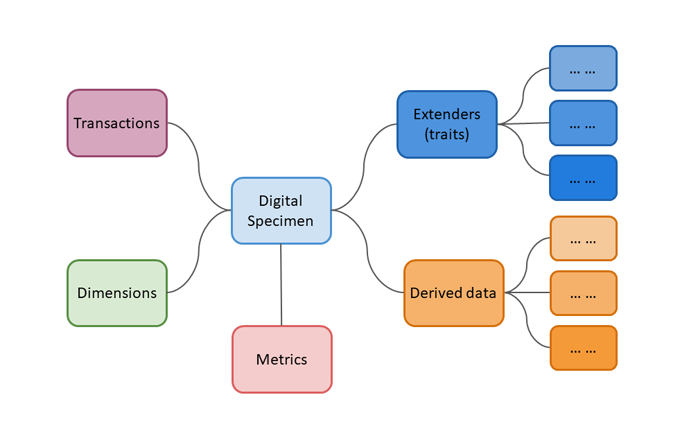
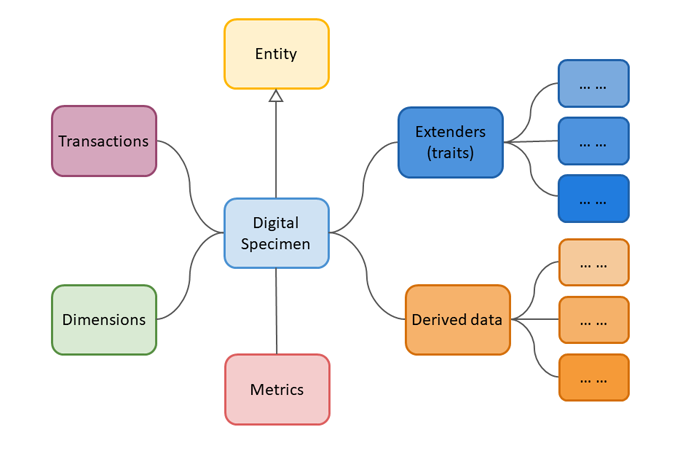
Reorganise as class groups
Reorganise three-level class hierarchy as as three class groups as it's not strictly hierarhical. Also, change diagrams.

diff --git a/data-model/data-model-intro.md b/data-model/data-model-intro.md
@@ -1,23 +1,23 @@
 # Introduction to the openDS data model <!-- omit in toc -->
 
-> **<p style="color: red;">17th November 2020: Note that the content of this page is work-in-progress and therefore incomplete. It does not yet describe all aspects of the model as elaborated in various Powerpoint presentations over the past months.</p>**
+> **<p style="color: red;">19th November 2020: This page is work-in-progress and therefore not yet complete and consistent. As yet, it doesn't describe all aspects as elaborated in Powerpoint presentations over the past months.</p>**
 > **<p style="color: red;">The important point at this moment is to obtain consensus on the foundation model described here.</p>**
 
-- [Three-level class hierarchy](#three-level-class-hierarchy)
+- [Class grouping](#class-grouping)
 - [Abstract (primary) level class definitions](#abstract-primary-level-class-definitions)
-- [Concrete (secondary) level class definitions](#concrete-secondary-level-class-definitions)
-  - [Classes with parent class Entity](#classes-with-parent-class-entity)
-  - [Classes with parent class Dimension](#classes-with-parent-class-dimension)
+- [openDS group class definitions](#opends-group-class-definitions)
+  - [Classes with abstract parent class Entity](#classes-with-abstract-parent-class-entity)
+  - [Classes with abstract parent class Dimension](#classes-with-abstract-parent-class-dimension)
 - [Extender (tertiary) level class definitions](#extender-tertiary-level-class-definitions)
 
-## Three-level class hierarchy
-As explained in [positioning openDS in the landscape](/positioning-opends.md), our design proposal (November 2020) aligns perfectly with the basic, three-axiom attribution model based on PROV entities (Entity, Activity, Agent) as outlined in the RDA Recommendation on '[Attribution Metadata](http://dx.doi.org/10.15497/RDA00029)'. We achieve this by defining a three-level class hierarchy in which we set the PROV model as the abstract or primary level from which some of the concrete classes of the openDS specification are inherited. To account for the wide variation in specimen categories (plants, insects, rocks, etc.) we use a lower level of extender classes or traits to make the concrete classes precise to specific situations. Thus, openDS defines a three-level class hierarchy comprised of:
+## Class grouping
+As explained in [positioning openDS in the landscape](/positioning-opends.md), our design proposal (November 2020) aligns perfectly with the basic, three-axiom attribution model based on PROV entities (Entity, Activity, Agent) as outlined in the RDA Recommendation on '[Attribution Metadata](http://dx.doi.org/10.15497/RDA00029)'. We extend from this by organising classes of the openDS object model into three groups in which we set the PROV model as the abstract group from which the concrete classes of the DS group inherit their principal characteristics. To account for the wide variation in specimen categories (plants, insects, rocks, etc.) and approaches to classification we use a group of extender classes or traits to make the concrete classes precise to specific situations. Thus, openDS defines three class groupings comprised of:
 
-1. **Abstract (primary) level:** The class definitions match the PROV/Attribution metadata and other surrounding object/data models necessary to give context to the openDS model;
-2. **Concrete (secondary) level:** The class definitions are subclasses of the abstract level classes and are actually the main classes making up the practical openDS data model; and,
-3. **Extender (tertiary) level:** The definitions that extend and further compose (or precise) the secondary level classes to more specific subclasses associated with different kinds of specimen representation e.g., for botany, for zoology, for geology, etc. In object modelling terms this level of definitions is sometimes referred to as traits that can be applied by mixing them into classes. A concrete class at the secondary level can mix in any number of traits from the extender level to make it more precise to the context in which it is instantiated.
+1. **Abstract group:** The primary class definitions match the PROV/Attribution metadata and other surrounding object/data models necessary to give context to the openDS model;
+2. **DS group:** The class definitions are subclasses of the abstract classes and are the main classes making up the practical openDS data model; and,
+3. **Extender group:** The definitions that extend and further compose (or precise) the DS group classes to more specific subclasses associated with different kinds of specimen representation e.g., for botany, for zoology, for geology, etc. In object modelling terms this level of definitions is sometimes referred to as traits that can be applied by mixing them into classes. A class in the DS group can mix in any number of traits from the extender group to make it more precise to the context in which it is instantiated.
 
-For now, the class definitions for each of these levels are given below. As these become accepted and grow in size and complexity they will eventually be split out into separate pages. To help keep track of the class definitions and their development, an [openDS class index spreadsheet](https://docs.google.com/spreadsheets/d/1Tb3zZZWY-TY50nttg3Jj8T0S2ZhJaNQKftv-a4ywV1I/) is maintained for quick reference. This also helps with synchronisation and alignment with the [MIDS](https://github.com/tdwg/cd/tree/master/mids) and [CD](https://github.com/tdwg/cd) standards developments.
+For now, the class definitions for each of these groups are given below. As these become accepted and grow in size and complexity they will eventually be split out into separate pages. To help keep track of the class definitions and their development, an [openDS class index spreadsheet](https://docs.google.com/spreadsheets/d/1Tb3zZZWY-TY50nttg3Jj8T0S2ZhJaNQKftv-a4ywV1I/) is maintained for quick reference. This also helps with synchronisation and alignment with the [MIDS](https://github.com/tdwg/cd/tree/master/mids) and [CD](https://github.com/tdwg/cd) standards developments.
 
 ## Abstract (primary) level class definitions
 
@@ -33,25 +33,19 @@ For now, the class definitions for each of these levels are given below. As thes
 > | Dimension | Elements that sub-divide a digital specimen in the openDS data model. <br>Note, compatible with CD | cd:Dimension |
 > | Metric | Numeric attributes measuring the secondary objects within the data model. Used for counting, reporting and other purposes. <br> Note, compatible with CD | cd:Metric |
 
-Figure 1 illustrates the PROV/Attribution model with its three starting point PROV classes (Entity, Activity, Agent) and two qualified classes (Role, Association) that form the foundation of openDS. 
+Figure 1 illustrates the PROV/Attribution model with its three starting point PROV classes (Entity, Activity, Agent) and two qualified classes (Role, Association) that form the foundation of openDS. These five classes exist at the abstract (primary) level of the class hierarchy. 
 
 ![figure: attribution model concept](/images/attributionmodel680.png)
 
 **Figure 1: RDA PROV/Attribution metadata model**<br>Reproduced from the RDA Recommendation on '[Attribution Metadata](http://dx.doi.org/10.15497/RDA00029)'.
 
-Figure 2 illustrates how the principal object classes relate to one another in a high-level object model concept.
+In the openDS group, the principal object classes are sub-classes (specializations) of classes at the abstract level. Figure 3 illustrates how these principal openDS classes relate to one another in the overall object model concept. The principal Digital Specimen object, the main subject of this openDS specification is coloured pink. Figure 3 also illustrates how specific openDS classes, such as `DigitalSpecimen` can be extended with traits such as `Extenders` and `ObjectClassification` that make the object instance more precise for specific circumstances.
 
-![figure: high-level object model concept](/images/modelconcept680.png)
+![figure: openDS classes as specializations of abstract classes, with extending traits](/images/defaultview1000.png)
 
-**Figure 2: High-level object model concept**
+**Figure 3: openDS classes as specializations of abstract classes, with extending traits**
 
-Using two examples (yellow and green), Figure 3 illustrates how the secondary (concrete) classes are instances of a specific primary (abstract) classes. Figure 1 also illustrates how a specific concrete class, such as `DigitalSpecimen` and `ObjectClassification` can be extended with traits that make the object instance more precise for specific circumstances. 
-
-![figure: secondary classes are instances of primary classes and traits extend secondary classes](/images/classhierarchy680.png)
-
-**Figure 3: Seconday (concrete) classes as instances of primary (abstract) classes, with trait extenders**
-
-## Concrete (secondary) level class definitions
+## openDS group class definitions
 
 Just a few examples at present:
 - DigitalSpecimen - is an example (subclass) of an Entity.
@@ -63,7 +57,7 @@ Just a few examples at present:
 
 To be completed - take from @wouteraddink document on DiSSCo data types
 
-### Classes with parent class Entity
+### Classes with abstract parent class Entity
 
 > | Secondary (concrete) class | Description | Source<br> (linked IRI where applicable) |
 > | --- | --- | --- |
@@ -73,7 +67,7 @@ To be completed - take from @wouteraddink document on DiSSCo data types
 > | Annotation |  |  |
 > | Interpretation |  |  |
 
-### Classes with parent class Dimension
+### Classes with abstract parent class Dimension
 
 > | Secondary (concrete) class | Description | Source<br> (linked IRI where applicable) |
 > | --- | --- | --- |

diff --git a/ods-ontology/ods-ont-intro.md b/ods-ontology/ods-ont-intro.md
@@ -16,7 +16,7 @@ For an explanation of how the BCO is related to the OBI and IAO ontologies, this
 
 With reference to the following figure, 
 
-![new classes in ODS ontology (dark green)](/images/ods-newconcepts.png)
+![new classes in ODS ontology (dark green)](/images/ods-newconcepts680.png)
 
 In the [OBI](http://www.obofoundry.org/ontology/obi.html) there is the concept of a ‘planned_process’ ([OBI_0000011](http://purl.obolibrary.org/obo/OBI_0000011)) that captures the idea of performing some kind of process that has previously been planned. Present examples (subclasses) include: carrying out investigations, assays, creating datasets, developing software and (of immediate relevance) collecting specimens ('specimen_collection_process',[OBI_000659](http://purl.obolibrary.org/obo/OBI_0000659)). 
 
